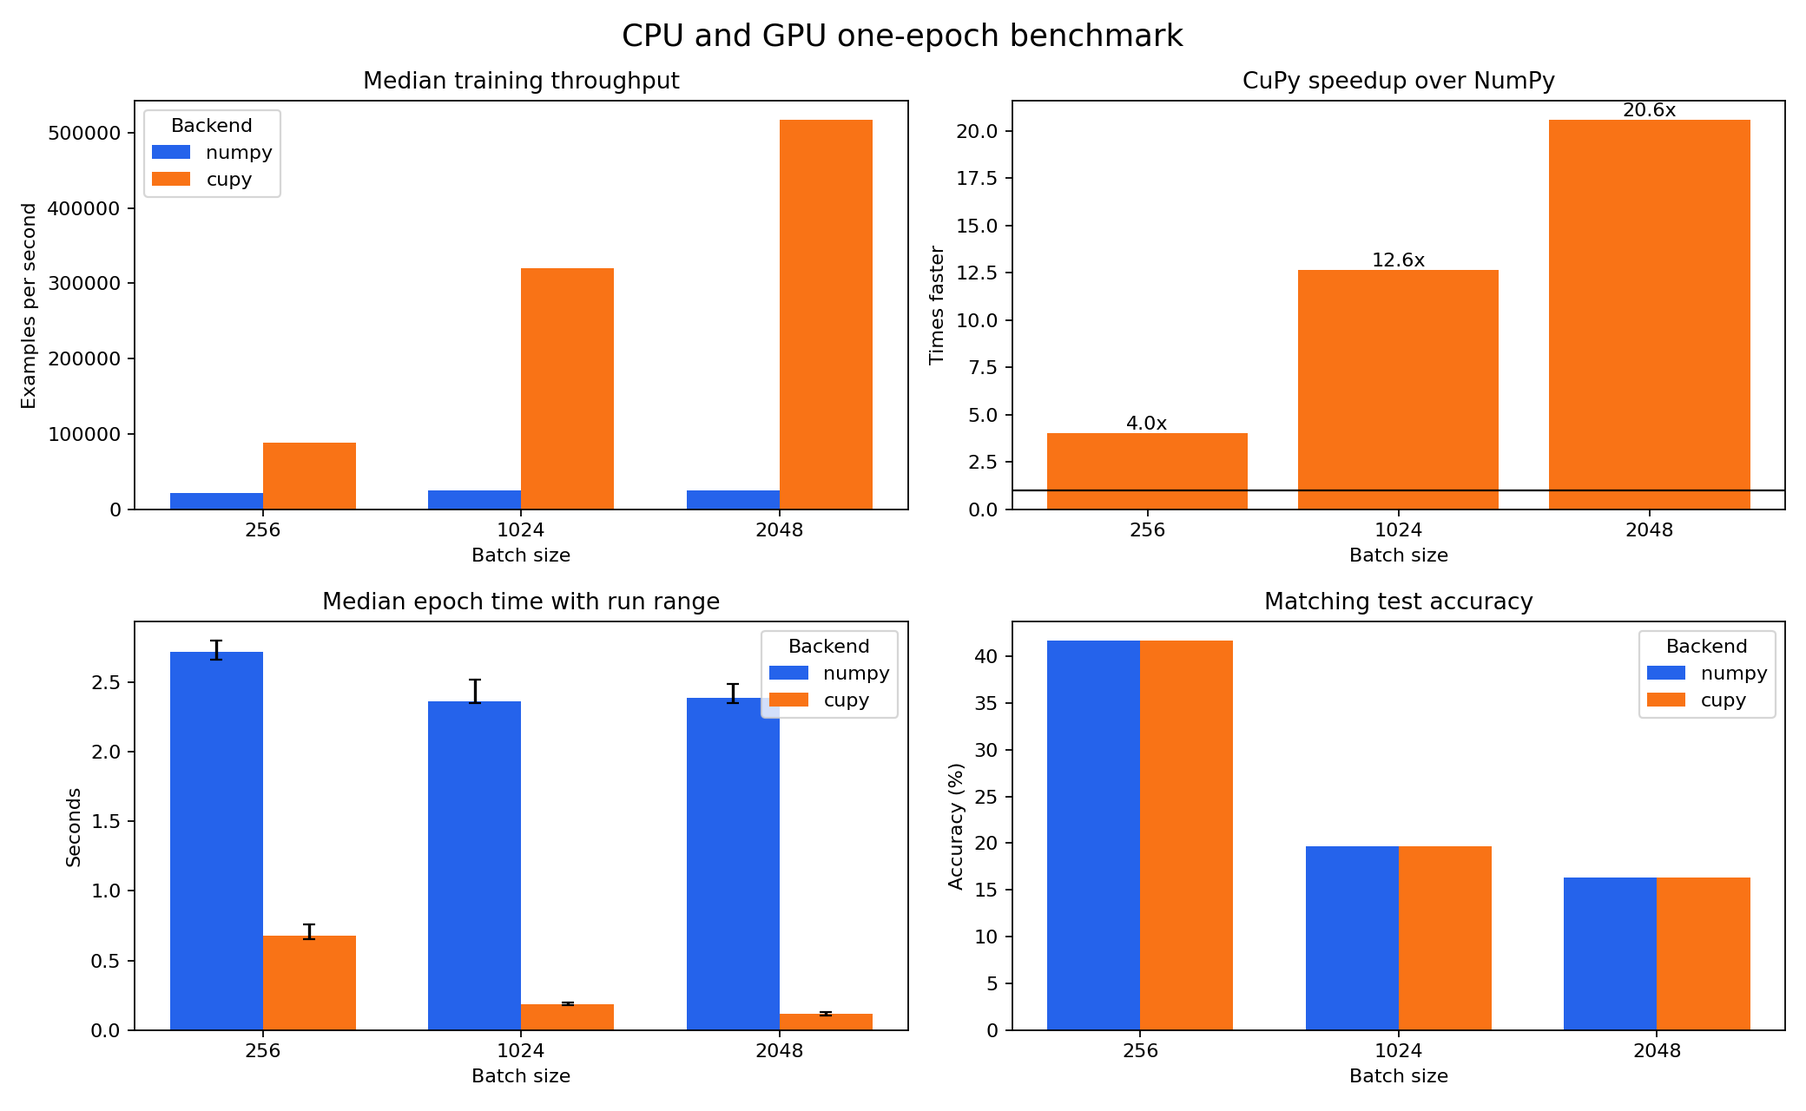
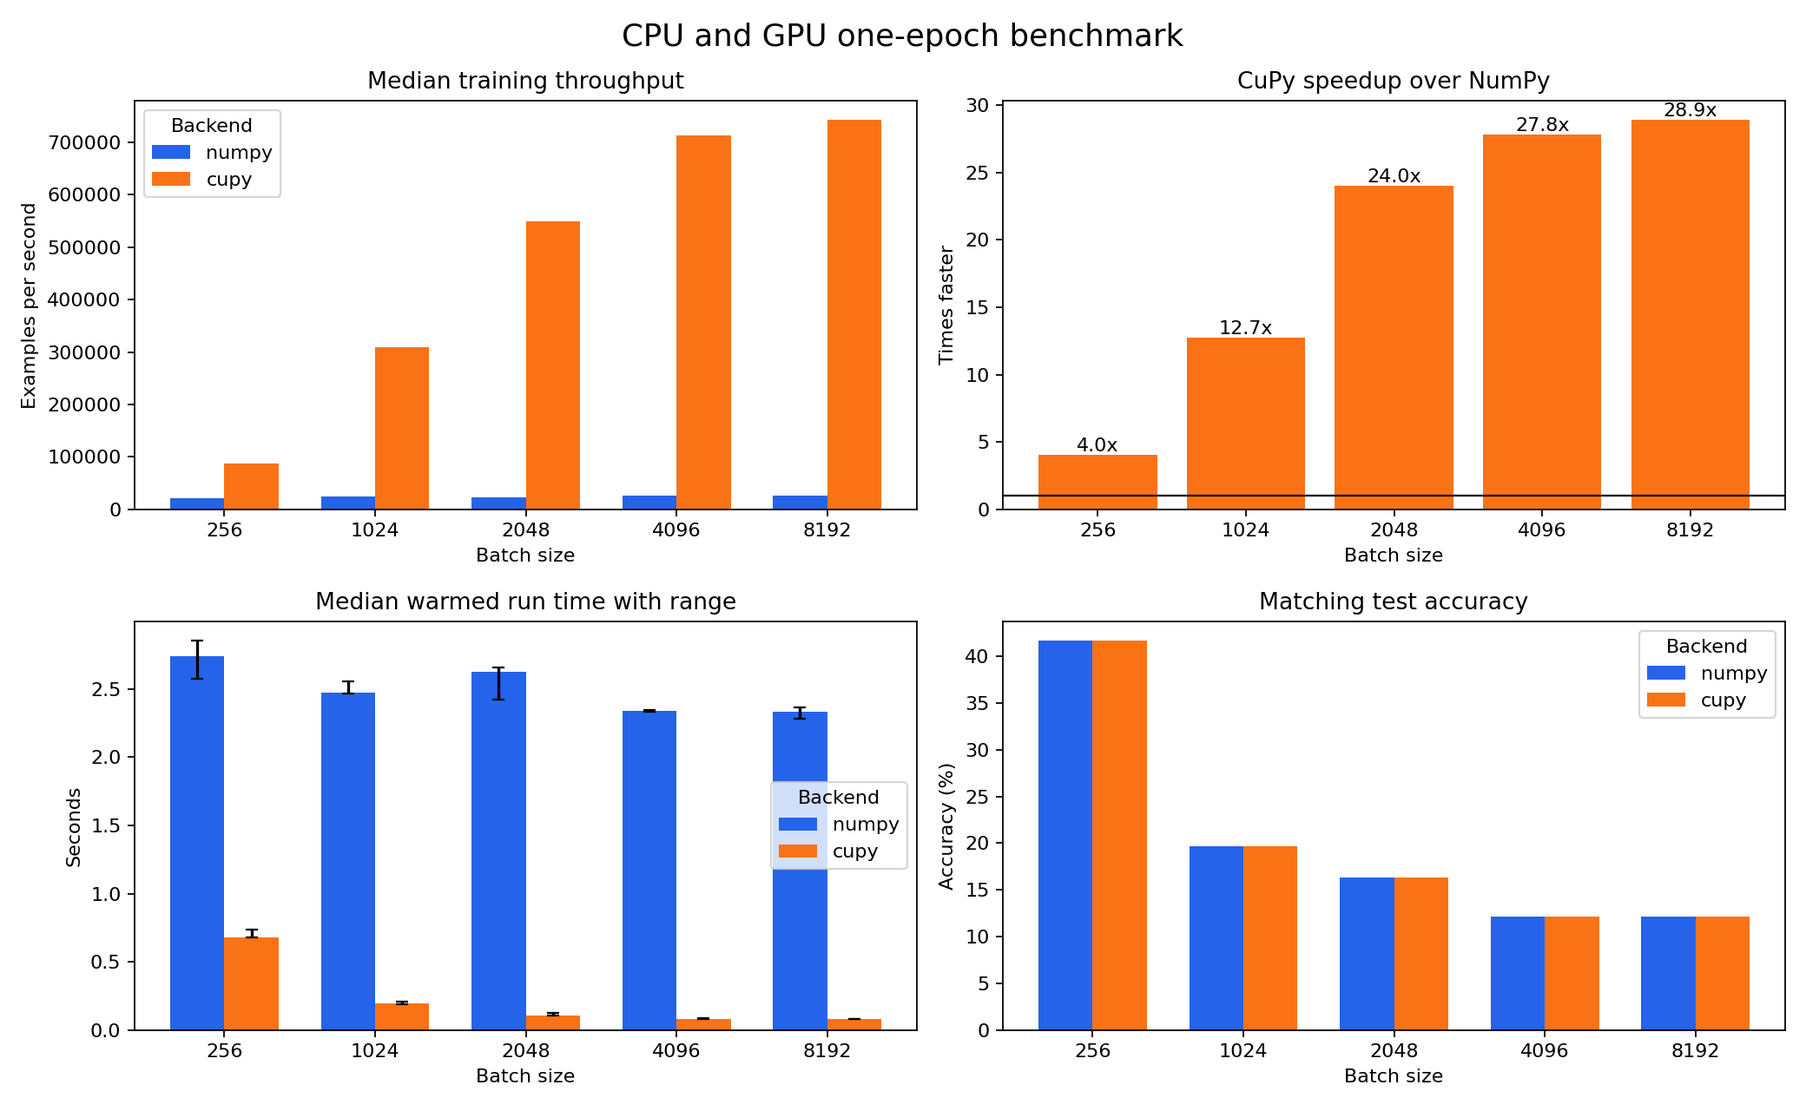
Add fair CPU GPU benchmark methodology

diff --git a/src/benchmark.py b/src/benchmark.py
@@ -1,6 +1,7 @@
 import copy
 import csv
 import statistics
+import time
 from pathlib import Path
 
 from dependencies import Network, get_backend
@@ -35,12 +36,23 @@ def add_summary_statistics(summary_records):
             if record["backend"] == backend and record["batch_size"] == batch_size
         ]
         durations = [record["total_seconds"] for record in records]
+        end_to_end_durations = [record["end_to_end_seconds"] for record in records]
         throughputs = [record["examples_per_second"] for record in records]
         for record in records:
             record["median_total_seconds"] = statistics.median(durations)
             record["minimum_total_seconds"] = min(durations)
             record["maximum_total_seconds"] = max(durations)
             record["median_examples_per_second"] = statistics.median(throughputs)
+            record["median_end_to_end_seconds"] = statistics.median(end_to_end_durations)
+            record["minimum_end_to_end_seconds"] = min(end_to_end_durations)
+            record["maximum_end_to_end_seconds"] = max(end_to_end_durations)
+
+    for backend in {record["backend"] for record in summary_records}:
+        records = [record for record in summary_records if record["backend"] == backend]
+        peak_record = max(records, key=lambda record: record["median_examples_per_second"])
+        for record in records:
+            record["peak_batch_size"] = peak_record["batch_size"]
+            record["peak_median_examples_per_second"] = peak_record["median_examples_per_second"]
 
 
 def save_single_epoch_benchmark_plot(summary_records, plot_path):
@@ -74,9 +86,10 @@ def save_single_epoch_benchmark_plot(summary_records, plot_path):
         ("numpy", numpy_records, -bar_width / 2),
         ("cupy", cupy_records, bar_width / 2),
     ):
-        values = [backend_records[batch_size]["median_examples_per_second"] for batch_size in batch_sizes]
+        backend_batch_sizes = sorted(backend_records)
+        values = [backend_records[batch_size]["median_examples_per_second"] for batch_size in backend_batch_sizes]
         axes[0, 0].bar(
-            [position + offset for position in positions],
+            [batch_sizes.index(batch_size) + offset for batch_size in backend_batch_sizes],
             values,
             width=bar_width,
             color=colors[backend],
@@ -88,16 +101,18 @@ def save_single_epoch_benchmark_plot(summary_records, plot_path):
     axes[0, 0].set_xlabel("Batch size")
     axes[0, 0].legend(title="Backend")
 
+    matched_batch_sizes = sorted(set(numpy_records) & set(cupy_records))
     speedups = [
         cupy_records[batch_size]["median_examples_per_second"]
         / numpy_records[batch_size]["median_examples_per_second"]
-        for batch_size in batch_sizes
+        for batch_size in matched_batch_sizes
     ]
-    bars = axes[0, 1].bar(list(positions), speedups, color=colors["cupy"])
+    matched_positions = [batch_sizes.index(batch_size) for batch_size in matched_batch_sizes]
+    bars = axes[0, 1].bar(matched_positions, speedups, color=colors["cupy"])
     axes[0, 1].axhline(1, color="black", linewidth=1)
     axes[0, 1].set_title("CuPy speedup over NumPy")
     axes[0, 1].set_ylabel("Times faster")
-    axes[0, 1].set_xticks(list(positions), batch_sizes)
+    axes[0, 1].set_xticks(matched_positions, matched_batch_sizes)
     axes[0, 1].set_xlabel("Batch size")
     for bar, speedup in zip(bars, speedups):
         axes[0, 1].text(
@@ -112,11 +127,12 @@ def save_single_epoch_benchmark_plot(summary_records, plot_path):
         ("numpy", numpy_records, -bar_width / 2),
         ("cupy", cupy_records, bar_width / 2),
     ):
-        durations = [backend_records[batch_size]["median_total_seconds"] for batch_size in batch_sizes]
-        minimums = [backend_records[batch_size]["minimum_total_seconds"] for batch_size in batch_sizes]
-        maximums = [backend_records[batch_size]["maximum_total_seconds"] for batch_size in batch_sizes]
+        backend_batch_sizes = sorted(backend_records)
+        durations = [backend_records[batch_size]["median_total_seconds"] for batch_size in backend_batch_sizes]
+        minimums = [backend_records[batch_size]["minimum_total_seconds"] for batch_size in backend_batch_sizes]
+        maximums = [backend_records[batch_size]["maximum_total_seconds"] for batch_size in backend_batch_sizes]
         axes[1, 0].bar(
-            [position + offset for position in positions],
+            [batch_sizes.index(batch_size) + offset for batch_size in backend_batch_sizes],
             durations,
             width=bar_width,
             color=colors[backend],
@@ -127,7 +143,7 @@ def save_single_epoch_benchmark_plot(summary_records, plot_path):
             capsize=3,
             label=backend,
         )
-    axes[1, 0].set_title("Median epoch time with run range")
+    axes[1, 0].set_title("Median warmed run time with range")
     axes[1, 0].set_ylabel("Seconds")
     axes[1, 0].set_xticks(list(positions), batch_sizes)
     axes[1, 0].set_xlabel("Batch size")
@@ -137,9 +153,10 @@ def save_single_epoch_benchmark_plot(summary_records, plot_path):
         ("numpy", numpy_records, -bar_width / 2),
         ("cupy", cupy_records, bar_width / 2),
     ):
-        accuracies = [backend_records[batch_size]["test_accuracy"] for batch_size in batch_sizes]
+        backend_batch_sizes = sorted(backend_records)
+        accuracies = [backend_records[batch_size]["test_accuracy"] for batch_size in backend_batch_sizes]
         axes[1, 1].bar(
-            [position + offset for position in positions],
+            [batch_sizes.index(batch_size) + offset for batch_size in backend_batch_sizes],
             accuracies,
             width=bar_width,
             color=colors[backend],
@@ -361,32 +378,40 @@ def run_batch_benchmark(args, data, structure, train_inputs, train_outputs, test
         f"Train examples: {len(benchmark_train_inputs)}, Test examples: {len(benchmark_test_inputs)}"
     )
     print(
-        "backend,batch_size,run,updates,total_seconds,seconds_per_epoch,examples_per_second,"
+        "backend,batch_size,run,updates,total_seconds,end_to_end_seconds,seconds_per_epoch,examples_per_second,"
         "train_average_cost,test_accuracy,test_average_cost,wrong"
     )
     summary_records = []
     history_records = []
 
     for backend in args.backends:
-        xp = get_backend(backend)
-        backend_train_inputs = xp.asarray(benchmark_train_inputs, dtype=xp.float32)
-        backend_train_outputs = xp.asarray(benchmark_train_outputs, dtype=xp.float32)
-        backend_test_inputs = xp.asarray(benchmark_test_inputs, dtype=xp.float32)
-        backend_test_outputs = xp.asarray(benchmark_test_outputs, dtype=xp.float32)
-        backend_test_y = xp.asarray(benchmark_test_y)
+        if backend == "numpy" and args.cpu_batch_sizes is not None:
+            batch_sizes = args.cpu_batch_sizes
+        elif backend == "cupy" and args.gpu_batch_sizes is not None:
+            batch_sizes = args.gpu_batch_sizes
+        else:
+            batch_sizes = args.batch_sizes
 
-        for batch_size in args.batch_sizes:
+        for batch_size in batch_sizes:
             for run in range(1, args.benchmark_runs + 1):
-                if backend == "cupy":
-                    for _ in range(args.benchmark_warmup_batches):
-                        warm_up_network(
-                            Network(copy.deepcopy(data), structure, backend),
-                            backend_train_inputs,
-                            backend_train_outputs,
-                            batch_size,
-                        )
+                xp = get_backend(backend)
+                backend_train_inputs = xp.asarray(benchmark_train_inputs, dtype=xp.float32)
+                backend_train_outputs = xp.asarray(benchmark_train_outputs, dtype=xp.float32)
+                for _ in range(args.benchmark_warmup_batches):
+                    warm_up_network(
+                        Network(copy.deepcopy(data), structure, backend),
+                        backend_train_inputs,
+                        backend_train_outputs,
+                        batch_size,
+                    )
 
+                end_to_end_started_at = time.perf_counter()
                 network = Network(copy.deepcopy(data), structure, backend)
+                backend_train_inputs = xp.asarray(benchmark_train_inputs, dtype=xp.float32)
+                backend_train_outputs = xp.asarray(benchmark_train_outputs, dtype=xp.float32)
+                backend_test_inputs = xp.asarray(benchmark_test_inputs, dtype=xp.float32)
+                backend_test_outputs = xp.asarray(benchmark_test_outputs, dtype=xp.float32)
+                backend_test_y = xp.asarray(benchmark_test_y)
                 stats = train_network(
                     network,
                     backend_train_inputs,
@@ -404,6 +429,7 @@ def run_batch_benchmark(args, data, structure, train_inputs, train_outputs, test
                     backend_test_outputs,
                     backend_test_y,
                 )
+                end_to_end_seconds = time.perf_counter() - end_to_end_started_at
                 examples_seen = len(benchmark_train_inputs) * args.epochs
                 examples_per_second = examples_seen / stats["total_seconds"]
                 seconds_per_epoch = stats["total_seconds"] / args.epochs
@@ -420,6 +446,7 @@ def run_batch_benchmark(args, data, structure, train_inputs, train_outputs, test
                     "test_examples": len(benchmark_test_inputs),
                     "updates": stats["updates"],
                     "total_seconds": stats["total_seconds"],
+                    "end_to_end_seconds": end_to_end_seconds,
                     "seconds_per_epoch": seconds_per_epoch,
                     "examples_per_second": examples_per_second,
                     "train_average_cost": train_average_cost,
@@ -459,6 +486,7 @@ def run_batch_benchmark(args, data, structure, train_inputs, train_outputs, test
                     f"{run},"
                     f"{stats['updates']},"
                     f"{stats['total_seconds']:.4f},"
+                    f"{end_to_end_seconds:.4f},"
                     f"{seconds_per_epoch:.4f},"
                     f"{examples_per_second:.2f},"
                     f"{train_average_cost:.6f},"

diff --git a/src/main.py b/src/main.py
@@ -52,6 +52,14 @@ def parse_args():
         default="1,8,16,32,64,128,256",
         help="Comma-separated batch sizes to compare with --benchmark-batches.",
     )
+    parser.add_argument(
+        "--cpu-batch-sizes",
+        help="Optional comma-separated NumPy batch sizes for an independent CPU peak sweep.",
+    )
+    parser.add_argument(
+        "--gpu-batch-sizes",
+        help="Optional comma-separated CuPy batch sizes for an independent GPU peak sweep.",
+    )
     parser.add_argument("--benchmark-train-limit", type=int, help="Limit benchmark training to the first N examples.")
     parser.add_argument("--benchmark-test-limit", type=int, help="Limit benchmark evaluation to the first N examples.")
     parser.add_argument(
@@ -64,7 +72,7 @@ def parse_args():
         "--benchmark-warmup-batches",
         type=int,
         default=1,
-        help="Unrecorded warm-up batches before each CuPy run. Defaults to 1.",
+        help="Unrecorded warm-up batches before every recorded run. Defaults to 1.",
     )
     parser.add_argument(
         "--benchmark-output",
@@ -100,13 +108,9 @@ def validate_args(parser, args):
     if args.batch_size <= 0:
         parser.error("--batch-size must be greater than 0.")
 
-    try:
-        args.batch_sizes = [int(size.strip()) for size in args.batch_sizes.split(",") if size.strip()]
-    except ValueError:
-        parser.error("--batch-sizes must be a comma-separated list of integers.")
-
-    if not args.batch_sizes or any(size <= 0 for size in args.batch_sizes):
-        parser.error("--batch-sizes must contain at least one positive integer.")
+    args.batch_sizes = parse_batch_sizes(parser, args.batch_sizes, "--batch-sizes")
+    args.cpu_batch_sizes = parse_batch_sizes(parser, args.cpu_batch_sizes, "--cpu-batch-sizes")
+    args.gpu_batch_sizes = parse_batch_sizes(parser, args.gpu_batch_sizes, "--gpu-batch-sizes")
 
     args.backends = [backend.strip() for backend in args.backends.split(",") if backend.strip()]
     valid_backends = {"numpy", "cupy"}
@@ -129,6 +133,20 @@ def validate_args(parser, args):
 
     if args.benchmark_warmup_batches < 0:
         parser.error("--benchmark-warmup-batches cannot be negative.")
+
+
+def parse_batch_sizes(parser, value, option):
+    """Parses an optional comma-separated list of positive batch sizes."""
+    if value is None:
+        return None
+    try:
+        batch_sizes = [int(size.strip()) for size in value.split(",") if size.strip()]
+    except ValueError:
+        parser.error(f"{option} must be a comma-separated list of integers.")
+
+    if not batch_sizes or any(size <= 0 for size in batch_sizes):
+        parser.error(f"{option} must contain at least one positive integer.")
+    return batch_sizes
 
 
 def train(args, data, network, train_inputs, train_outputs, test_inputs, test_outputs, test_y):

diff --git a/docs/benchmark-methodology.md b/docs/benchmark-methodology.md
@@ -1,0 +1,62 @@
+# CPU and GPU Benchmark Methodology
+
+## What the Measurements Answer
+
+The project reports two different questions. They should not be treated as interchangeable.
+
+| Question | Measurement | What it supports |
+|---|---|---|
+| Which backend is faster for the same work? | Same model, seed, data, batch size, epochs, and learning rate | A matched-workload speedup claim |
+| Which backend has the best throughput in the tested range? | Sweep batch sizes independently for NumPy and CuPy | A best-tested peak-throughput comparison |
+| Which backend completes a local job sooner? | `end_to_end_seconds` | A practical operation-time comparison |
+| Which backend sustains training throughput? | `total_seconds` and `median_examples_per_second` after warm-up | A steady-state comparison |
+| Which setup learns a task sooner? | Time to a target validation accuracy with tuned learning rate | A training-quality comparison; not yet implemented |
+
+The first two questions are performance comparisons. They do not establish that the GPU is always better for local models or that one configuration is an absolute hardware peak.
+
+## Timing Boundaries
+
+Every recorded run exposes both timings:
+
+| Field | Included | Excluded |
+|---|---|---|
+| `total_seconds` | Training and per-epoch evaluation after warm-up | Model creation and conversion of NumPy data to the selected backend |
+| `end_to_end_seconds` | Model creation, selected-backend conversion, training, and final evaluation | MNIST loading through TensorFlow and Python/CUDA process startup |
+
+CuPy operations are synchronized before timing values are read. Without synchronization, a host timer can stop while CUDA work is only queued, producing an invalid GPU result.
+
+## Controls for Fairness
+
+- The same saved model starts every CPU and GPU run.
+- Both backends receive the same number of unrecorded warm-up batches before each recorded run.
+- Benchmarks record three runs by default and emit median, minimum, and maximum durations.
+- Matching batch sizes permit direct CPU-to-GPU speedup claims.
+- `--cpu-batch-sizes` and `--gpu-batch-sizes` permit independent sweeps to find each backend's best tested result.
+- Dataset loading is outside the benchmark because TensorFlow loading is not work performed by either network backend.
+
+## Remaining Limits
+
+`peak_median_examples_per_second` means the best result within the supplied batch-size list, not a hardware manufacturer's theoretical peak. A stronger peak study should also control CPU BLAS thread settings, CPU power mode, GPU clocks, background load, and a wider range of batch sizes up to memory limits.
+
+Large batches change the number of gradient updates and can change convergence. Do not compare time-to-accuracy across different batch sizes with a fixed learning rate. Tune the learning rate and epoch budget for each batch-size regime, then compare the time required to reach the same validation target.
+
+## Recommended Commands
+
+Use a common sweep for direct same-batch comparisons:
+
+```powershell
+python src/randomiser.py models/medium.json --structure 784,512,512,10 --seed 42
+python src/main.py --benchmark-batches --model models/medium.json --structure 784,512,512,10 --backends numpy,cupy --batch-sizes 256,1024,2048,4096,8192 --epochs 1 --benchmark-runs 3
+```
+
+Use independent ranges for a best-tested peak comparison:
+
+```powershell
+python src/main.py --benchmark-batches --model models/medium.json --structure 784,512,512,10 --backends numpy,cupy --cpu-batch-sizes 256,1024,2048,4096 --gpu-batch-sizes 512,1024,2048,4096,8192 --epochs 1 --benchmark-runs 3
+```
+
+Interpret the generated CSV as follows:
+
+- Compare `median_examples_per_second` at a shared batch size for matched-workload speedup.
+- Compare `peak_median_examples_per_second` for the best result observed in each backend's supplied sweep.
+- Compare `median_end_to_end_seconds` when deciding whether a local job finishes sooner.

diff --git a/docs/gpu-medium-model-follow-up.md b/docs/gpu-medium-model-follow-up.md
@@ -12,20 +12,24 @@ The benchmark used the full MNIST dataset for one epoch with a Xavier-initialize
 - Test examples: `10,000`
 - Learning rate: `0.1`
 - Recorded runs per configuration: `3`
-- CuPy warm-up batches before each run: `1`
+- Warm-up batches before each recorded run: `1` for both backends
 - Data type: `float32`
 
 ![Medium model NumPy and CuPy benchmark](assets/gpu_medium_stats.png)
 
 ## Results
 
-| Batch size | NumPy median examples/sec | CuPy median examples/sec | CuPy advantage | Matching test accuracy |
+| Batch size | NumPy median examples/sec | CuPy median examples/sec | Matched speedup | Matching test accuracy |
 |---:|---:|---:|---:|---:|
-| 256 | 22,762.95 | 87,890.54 | 3.9x | 41.68% |
-| 1024 | 26,005.88 | 331,404.01 | 12.7x | 19.63% |
-| 2048 | 26,089.61 | 583,037.68 | 22.3x | 16.36% |
+| 256 | 21,908.39 | 87,919.62 | 4.0x | 41.68% |
+| 1024 | 24,267.65 | 308,846.60 | 12.7x | 19.63% |
+| 2048 | 22,866.23 | 548,886.08 | 24.0x | 16.36% |
+| 4096 | 25,613.13 | 713,056.54 | 27.8x | 12.19% |
+| 8192 | 25,688.25 | 742,582.53 | 28.9x | 12.14% |
 
-CuPy was faster at every tested batch size. At batch size `2048`, its median throughput was `22.3x` higher than NumPy's. CPU and GPU runs reached the same final accuracy and cost for every matching configuration, so the difference is a performance crossover rather than a change in training semantics.
+CuPy was faster at every tested batch size. The best observed warmed throughput was `25,688` examples/sec for NumPy and `742,583` for CuPy, both at batch size `8192`. This is a `28.9x` matched-workload speedup, not a claim of either device's theoretical peak. CPU and GPU runs reached the same final accuracy and cost for every matching configuration, so the difference is a performance crossover rather than a change in training semantics.
+
+At batch size `8192`, median operation end-to-end time was `2.76s` for NumPy and `0.41s` for CuPy, a `6.7x` GPU advantage. This includes model construction, data conversion to the selected backend, training, and final evaluation; it excludes MNIST loading and Python/CUDA process startup. See the [benchmark methodology](benchmark-methodology.md) for the exact timing boundaries and remaining limitations.
 
 ## Why the GPU Won
 
@@ -62,4 +66,4 @@ The implementation now supports the conditions used in this experiment:
 - `--benchmark-runs` defaults to three and CuPy warm-up is controlled by `--benchmark-warmup-batches`.
 - Summary CSV rows include median, minimum, and maximum duration values.
 
-Raw records are written to `outputs/gpu_medium_summary.csv` and `outputs/gpu_medium_history.csv`. The low one-epoch accuracies should not be compared directly with the earlier five-epoch small-model result; longer accuracy benchmarks should tune the learning rate for each batch-size regime.
+Raw records are written to `outputs/gpu_medium_peak_summary.csv` and `outputs/gpu_medium_peak_history.csv`. The low one-epoch accuracies should not be compared directly with the earlier five-epoch small-model result; longer accuracy benchmarks should tune the learning rate for each batch-size regime.

diff --git a/README.md b/README.md
@@ -31,7 +31,7 @@ A GPU version should still be designed carefully around data movement. The impor
 
 ## GPU Processing
 
-The network supports NumPy for CPU execution and CuPy for CUDA GPU execution. The full MNIST comparison produced identical training results, but NumPy was `3.9x` faster for the current small model. See the [CPU and GPU performance report](docs/gpu-performance-report.md) for the benchmark results, explanation, and steps toward a GPU advantage.
+The network supports NumPy for CPU execution and CuPy for CUDA GPU execution. The full MNIST comparison produced identical training results, but NumPy was `3.9x` faster for the current small model. See the [CPU and GPU performance report](docs/gpu-performance-report.md), [medium-model GPU follow-up](docs/gpu-medium-model-follow-up.md), and [benchmark methodology](docs/benchmark-methodology.md) for results, hardware tradeoffs, and fair comparison guidance.
 
 Install a CuPy wheel matching the installed CUDA runtime. For current CUDA 12 systems:
 
@@ -151,6 +151,8 @@ Useful flags:
 - `--learning-rate VALUE` - Training learning rate
 - `--batch-size N` - Number of examples per training update
 - `--batch-sizes LIST` - Comma-separated batch sizes for benchmarking, for example `1,8,32,128`
+- `--cpu-batch-sizes LIST` - Optional NumPy-only batch-size sweep for best-tested CPU throughput
+- `--gpu-batch-sizes LIST` - Optional CuPy-only batch-size sweep for best-tested GPU throughput
 - `--benchmark-train-limit N` - Limit benchmark training examples for quicker comparisons
 - `--benchmark-test-limit N` - Limit benchmark test examples for quicker comparisons
 - `--benchmark-runs N` - Recorded runs per backend and batch size; defaults to 3
